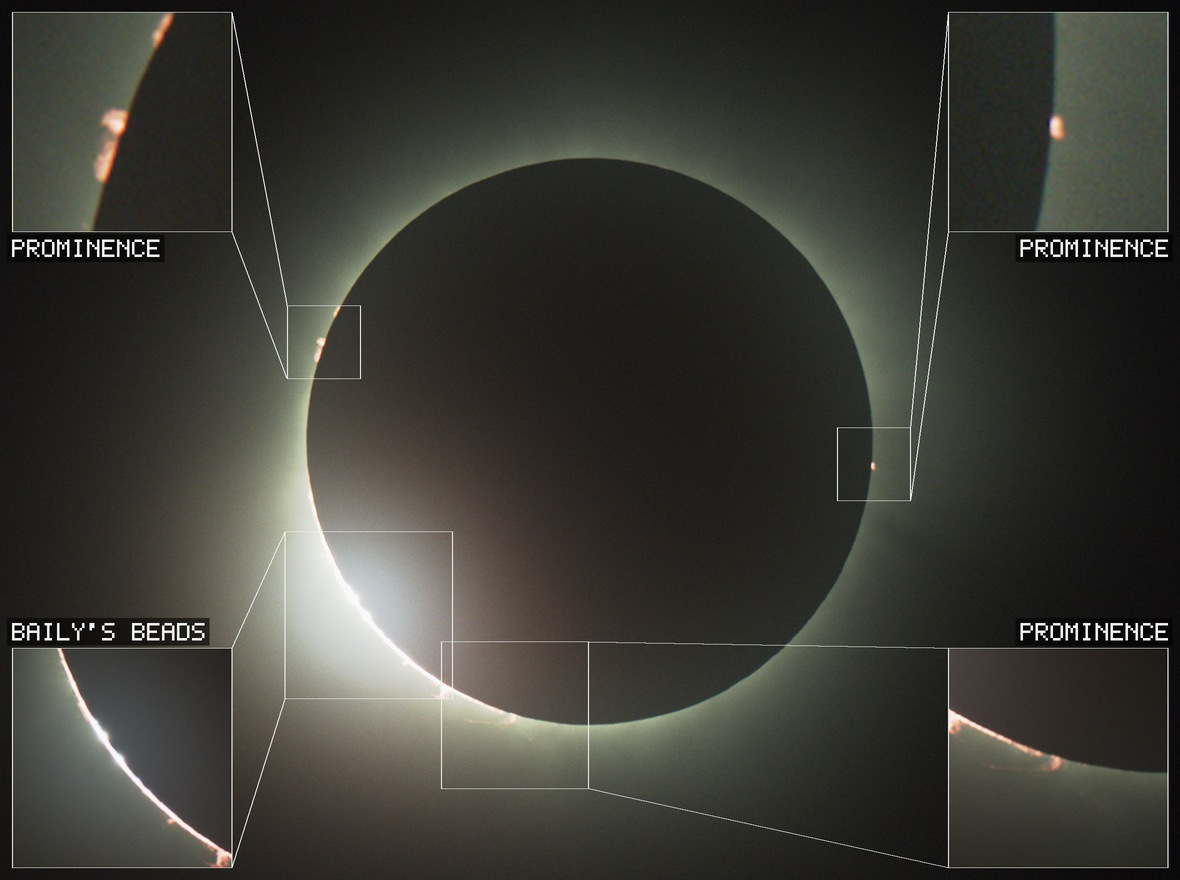
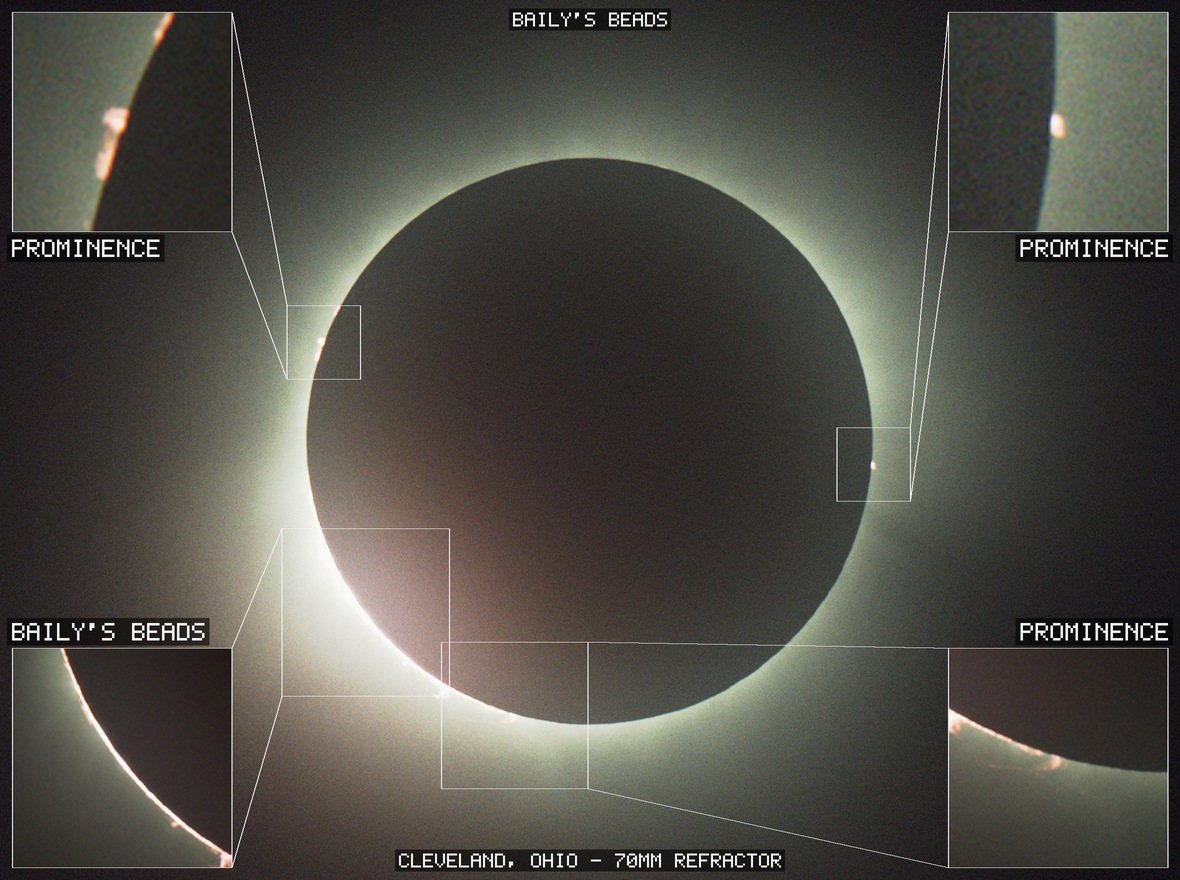
Rebuild the media with the captions, and take the poster from the beads
Every frame now carries the phase across the top and CLEVELAND, OHIO - 70MM
REFRACTOR along the bottom, so all three assets are rebuilt from the run that
has them. The full cut is 90 MB rather than 99.

The poster moves from seq 1014 to seq 1120. The old pick scored highest on red
contrast but the classifier calls it "partial", which put the word PARTIAL above
a frame carrying a BAILY'S BEADS panel and a diamond ring - true, and it reads
as a mistake. seq 1120 is inside the measured bead window, so the caption agrees
with the picture, and it scores higher anyway at 49.3 against 47.5. The cost is
a shallower stack, 3 against 20, because bead frames are deliberately stacked
short - visible as a little grain in the panels, which is the right trade for
the top of the page.

alignment.gif is unchanged and did not need rebuilding: the demo strips captions
from both sides now, for the reason it already strips insets - the comparison is
about where the crop sits, and its panels are a few hundred px wide.

diff --git a/docs/STATE.md b/docs/STATE.md
@@ -4,6 +4,53 @@
 are kept as written; where one names a file that has since moved, the rebuild
 commands at the end of this document are the current truth.*
 
+## 2026-08-21 (last) — every frame now knows which phase it is in
+
+Asked for the phase named across the top of the frame and the site and gear
+along the bottom, with the classifier running on its own rather than on anything
+I worked out by eye. So `ecl.phases` decides it from ONE number: the centre
+separation `d` between Sun and Moon, from the fitted track in `diag/drift.json`,
+against the two radii.
+
+    d >= r_sun + r_moon    no eclipse
+    d  < r_sun + r_moon    partial
+    d <= r_moon - r_sun    totality
+
+No pixel is read. The contacts are bisected on d(t), so they land at their true
+time whether or not a frame was captured near them - C1 at -2959 s and C4 at
++6723 s both fall outside the captured span entirely. Beads are the one
+exception and deliberately so: they are the photosphere through lunar valleys,
+not a geometric state, so their extent comes from `diag/beads.json`.
+
+**Two things had to be got right, and both were wrong first.**
+
+The RADII must come from the drift pass, not the survey. They are different
+measurements - 279.0 px off the terminator against 291.8 px off the filtered
+disc - and since totality is `d < r_moon - r_sun`, the survey pair gives a limit
+of 0.23 px, which no eclipse ever meets. Every totality frame came back
+"partial". The drift pair is the one that pass validated itself against.
+
+The BISECTION must be split at closest approach, not at the midpoint of the
+search window. Separation is a U, so each threshold is crossed twice, and a
+midpoint split brackets them only by luck. Here the midpoint was t=1350 s where
+d = 62.8 px, while closest approach is t=1882 s - so it reported no totality at
+all on data that plainly contains it. Both faults are pinned by tests, the
+second by name.
+
+Totality comes out at 219.1 s, against the 219.05 s `tl_drift` predicts by its
+own arithmetic - an independent check that the bisection agrees with the pass
+whose track it is using.
+
+**The caption is config, not code.** `caption.credit` is empty by default and
+nothing infers it: this tool cannot know where data was shot or on what, and a
+caption inherited from another shoot would be a lie printed on the face of the
+picture. A comma was added to the 5x7 font, which is safe in a way that changing
+a glyph would not be - no existing label contains one.
+
+**One honest asymmetry.** Beads are captioned at second contact and not at
+third, because `beadwindow` measured only the one window. The classifier reports
+what was measured rather than assuming symmetry.
+
 ## 2026-08-21 (later still) — the beads bloomed and took the chromosphere with them
 
 Reported as two faults - the beads brightening through second contact where they

diff --git a/README.md b/README.md
@@ -27,7 +27,7 @@ were all chosen by the pipeline from the data.
 
 The full-resolution cut of that same run is on the
 [v0.1.0 release](https://github.com/dmead/solar-eclipse-timelapse/releases/tag/v0.1.0)
-— 2360x1760 at CRF 17 (99 MB), plus a 1080-wide cut sized to survive Instagram
+— 2360x1760 at CRF 17 (90 MB), plus a 1080-wide cut sized to survive Instagram
 without a re-encode, a 2 MB preview, and the animated preview above.
 
 `timelapse.gif` below is a pipeline output too, not a clip chosen by hand: nine
@@ -243,6 +243,7 @@ The passes, in the order they run and with what each leaves behind:
 | `drift` | `diag/drift.json` | where the Sun is while the Moon hides it |
 | `smooth` | (the config) | the drift model, and which fits to distrust |
 | `insets` | (the config) | what each zoom panel follows |
+| `phases` | `diag/phases.json` | the four contacts, and a phase per frame |
 | `render` | `frames/*.png` | the frames |
 | `encode` | `final/*.mp4`, `final/timelapse.gif` | three cuts and the preview |
 
@@ -375,6 +376,10 @@ Things worth changing first:
 | `panels.size_frac` | panels too large or too small for the output frame |
 | `panels.max_panels` | you want fewer things labelled at once |
 | `centres.r_search_*_r` | the one global radius acquisition looked in the wrong range |
+| `caption.credit` | **name the site and the gear** - blank by default, drawn along the bottom |
+| `caption.show_phase` | you do not want the phase named across the top |
+| `caption.height_frac` | captions too small or too large for the output size |
+| `phases.bead_window_s` | the beads caption starts or ends at the wrong moment |
 | `gif.seconds`, `gif.width` | the animated preview is too long, too short, or too big a file |
 
 ---
